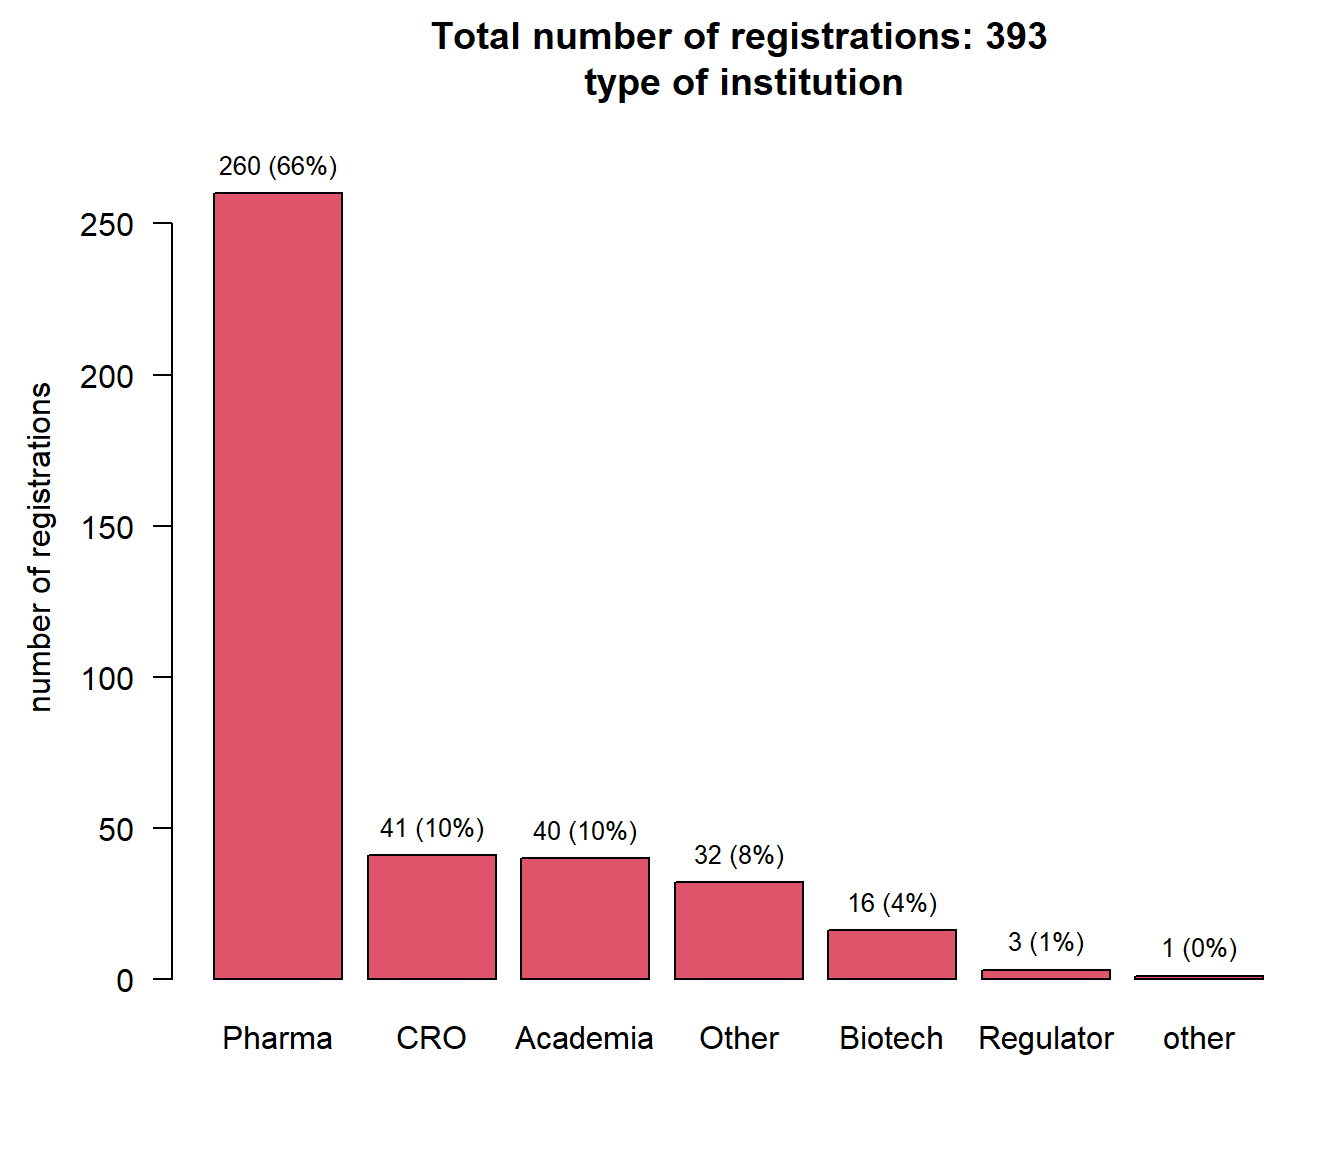
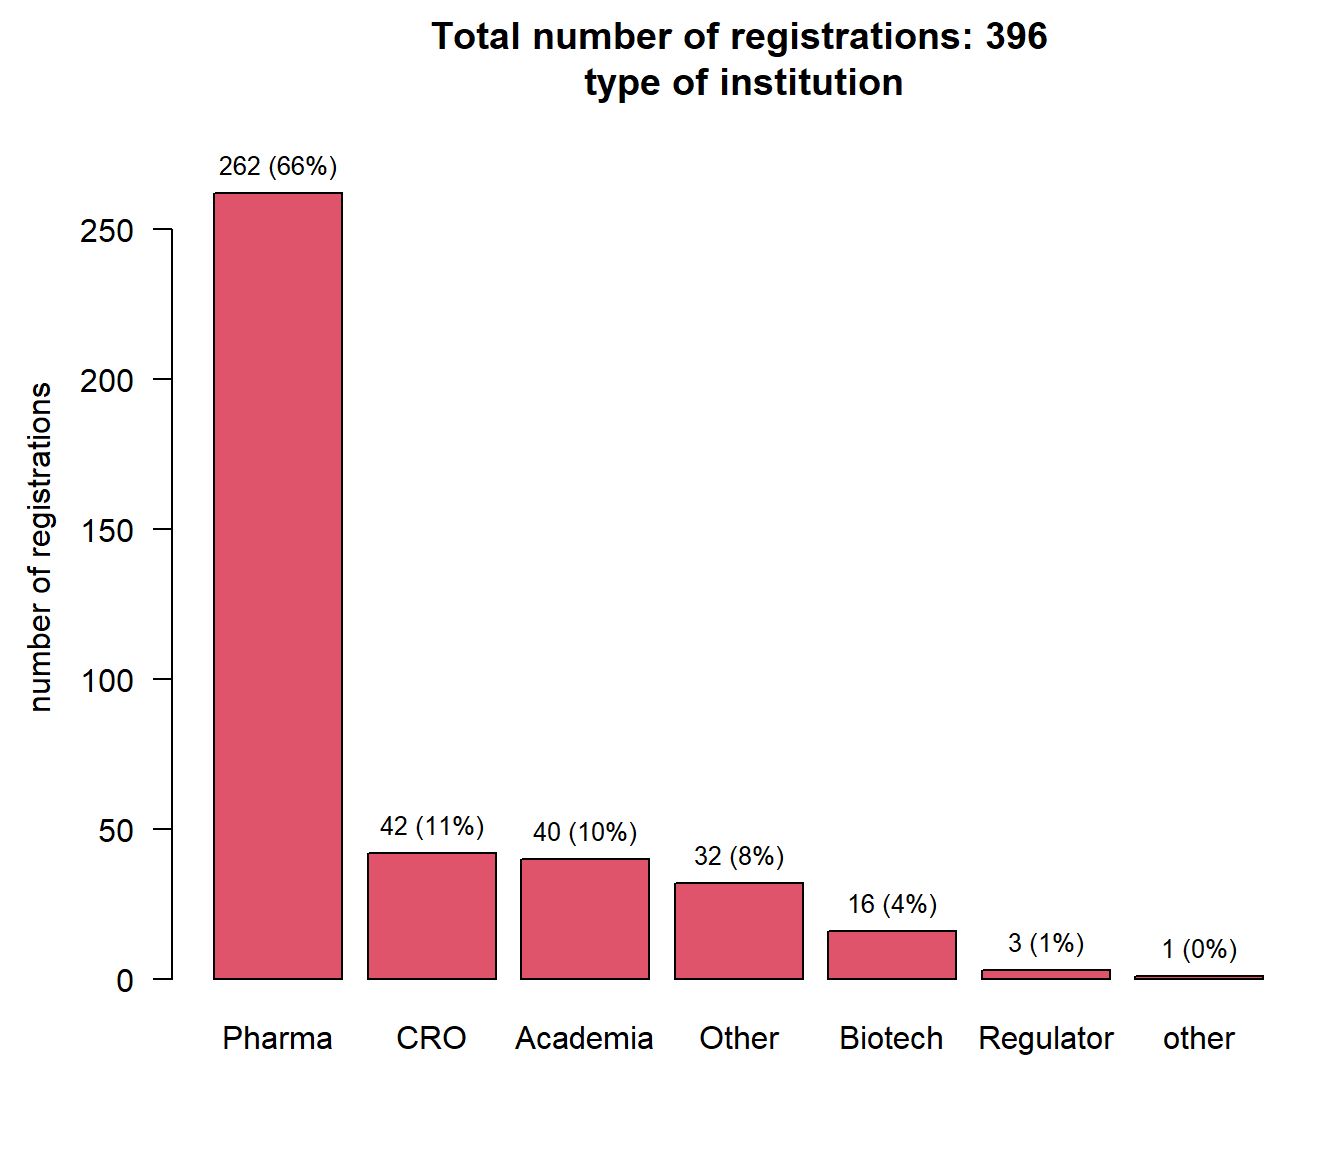
update

diff --git a/docs/upcoming/20250319/analysis_innovation.html b/docs/upcoming/20250319/analysis_innovation.html
@@ -211,7 +211,7 @@ ul.task-list li input[type="checkbox"] {
 
 <section id="data-status" class="level1">
 <h1>Data status</h1>
-<p>Data as of 2025-03-19 at 11:11:40.</p>
+<p>Data as of 2025-03-19 at 14:02:22.</p>
 </section>
 <section id="registrations-by-type-of-institution" class="level1">
 <h1>Registrations by type of institution</h1>

diff --git a/docs/upcoming/20250319/analysis_innovation_questions.html b/docs/upcoming/20250319/analysis_innovation_questions.html
@@ -205,7 +205,7 @@ ul.task-list li input[type="checkbox"] {
 
 <section id="data-status" class="level1">
 <h1>Data status</h1>
-<p>Data as of 2025-03-19 at 11:12:01.</p>
+<p>Data as of 2025-03-19 at 14:02:29.</p>
 </section>
 <section id="analysis-of-registrations" class="level1">
 <h1>Analysis of registrations</h1>
